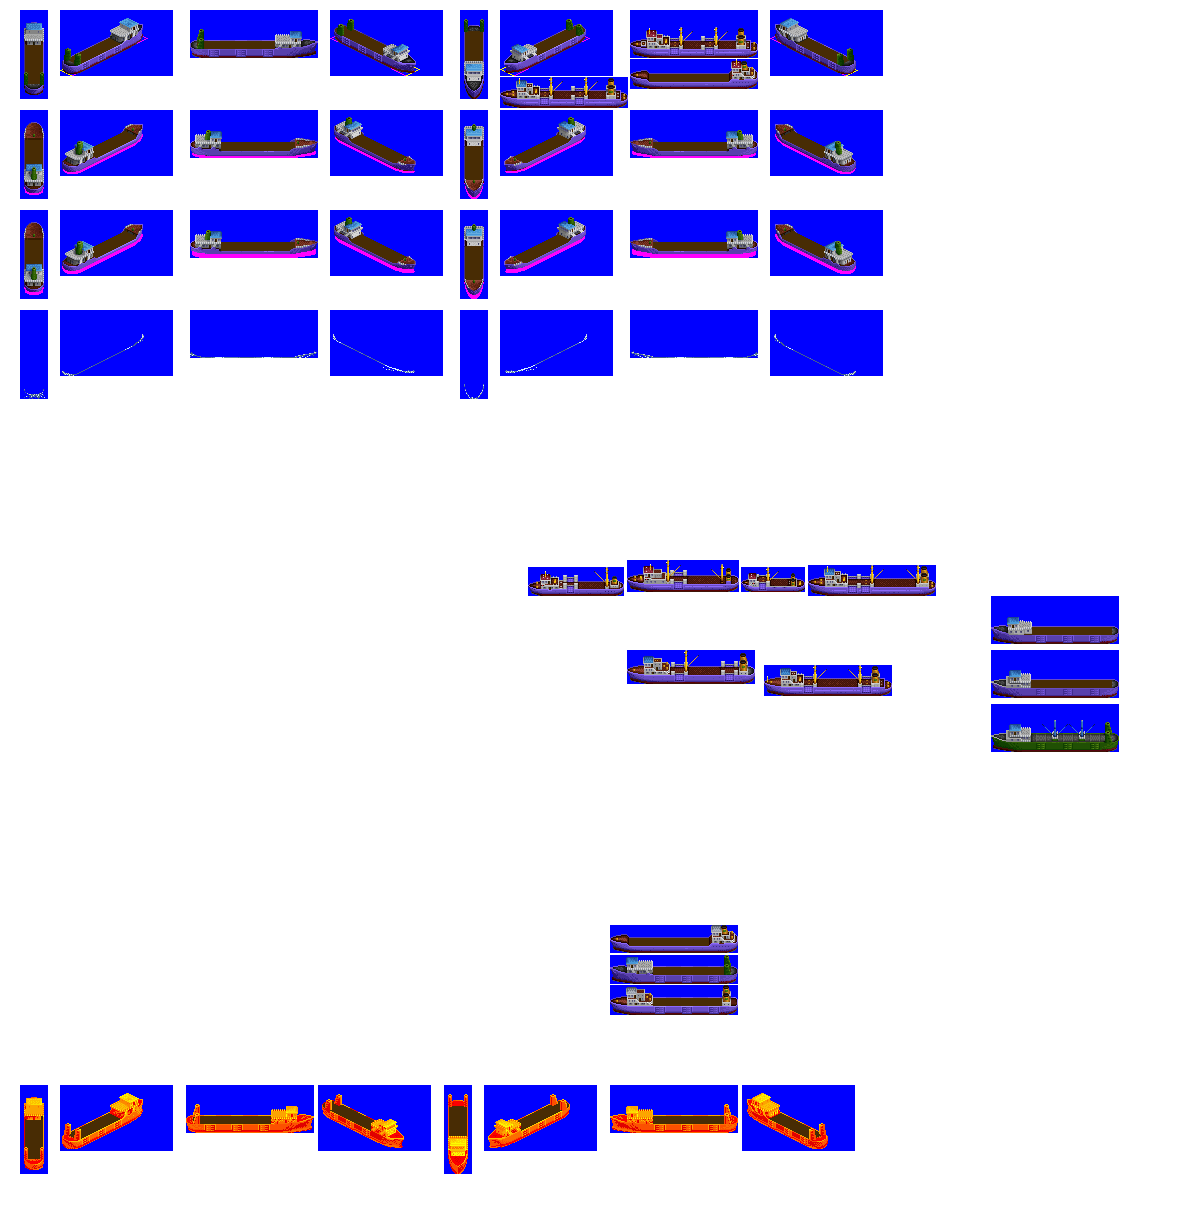
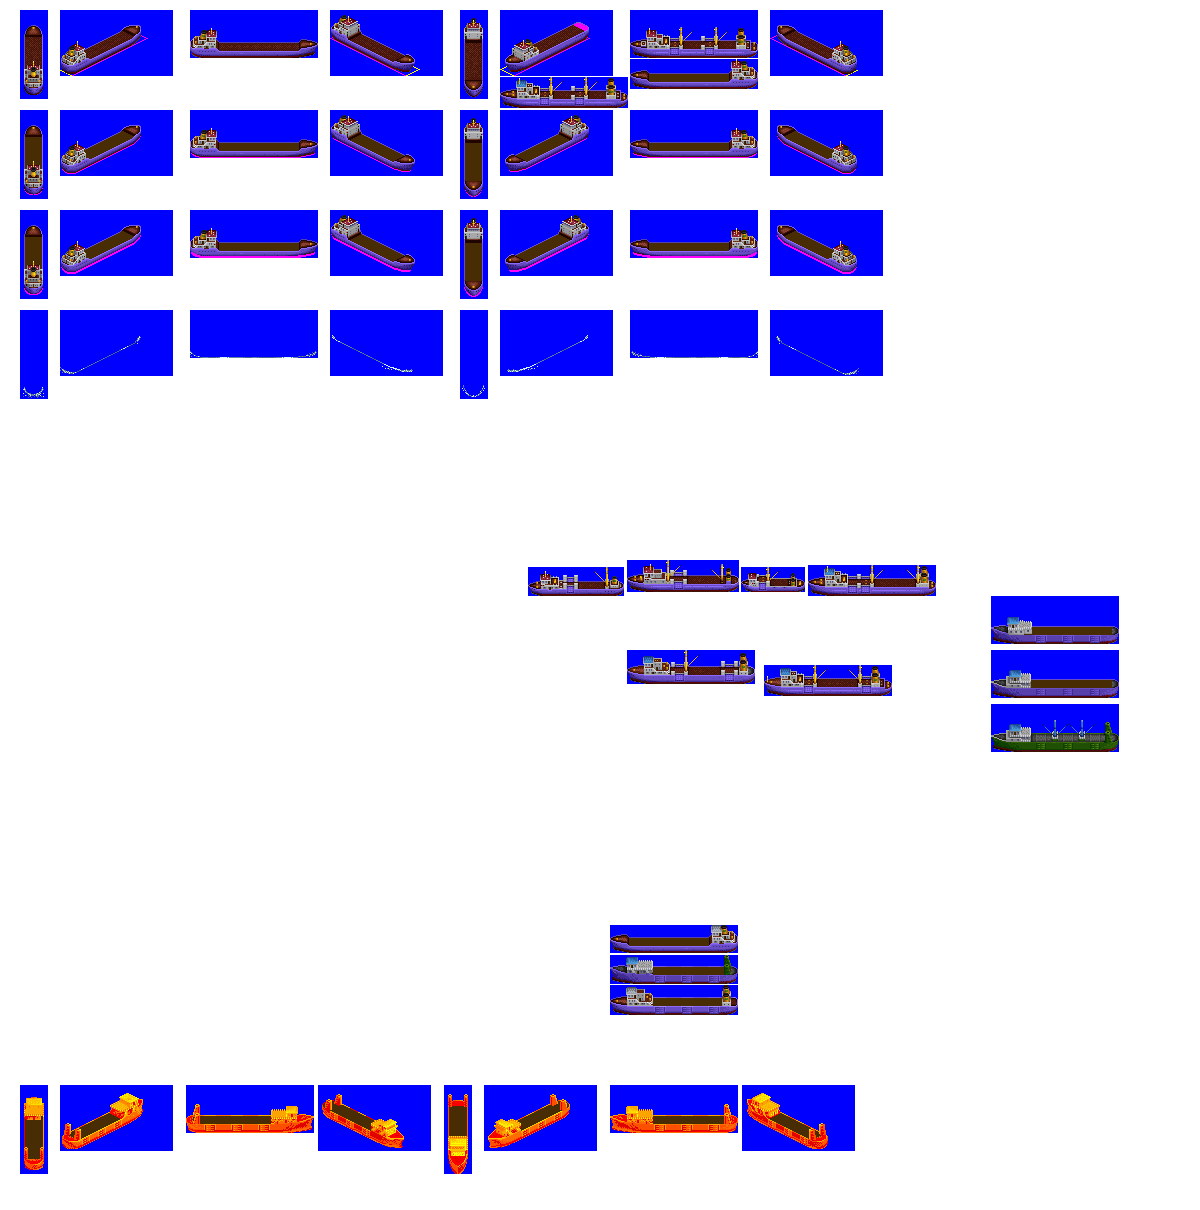
Change: improved wake sprite / loaded appearance for 128px ship hulls

diff --git a/src/hulls.py b/src/hulls.py
@@ -162,7 +162,7 @@ class ShipHouseRear128px(Hull):
         self.hull_length = "128px"
         self.hull_type = "ship"
         self.house_position = "rear"
-        self.load_state_y_offsets = [("empty", -1), ("part_load", 1), ("full_load", 3)]
+        self.load_state_y_offsets = [("empty", -1), ("part_load", 0), ("full_load", 2)]
         self.effects_positions = [(15, 0, 27)]
 
 
